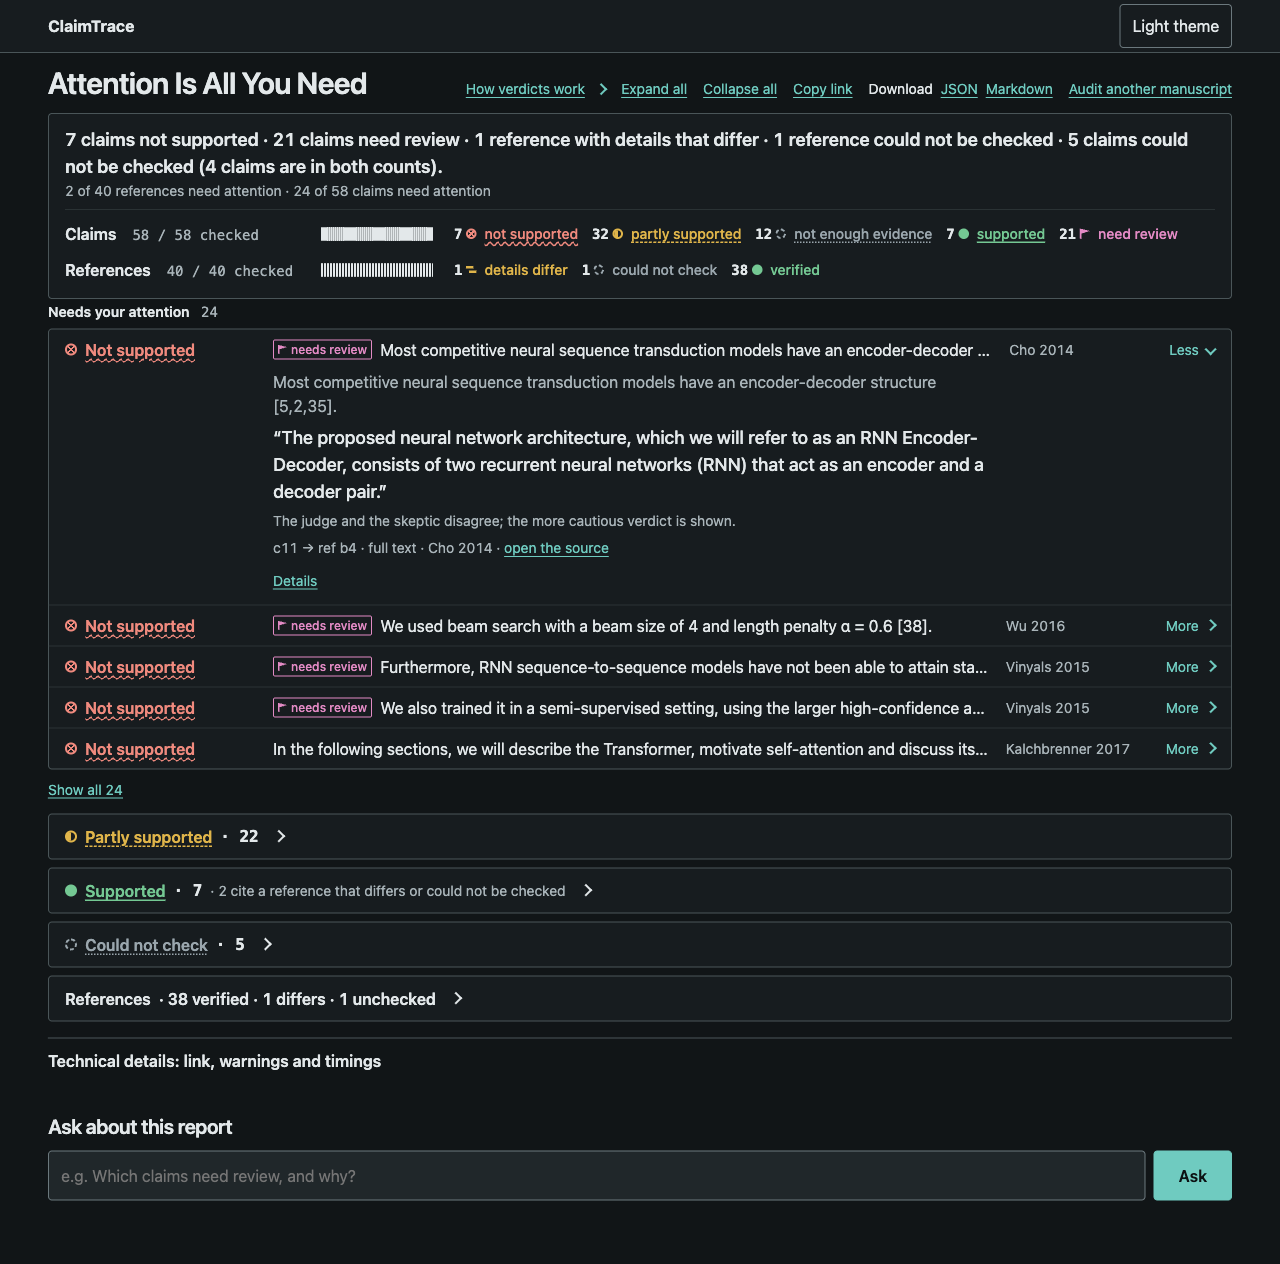
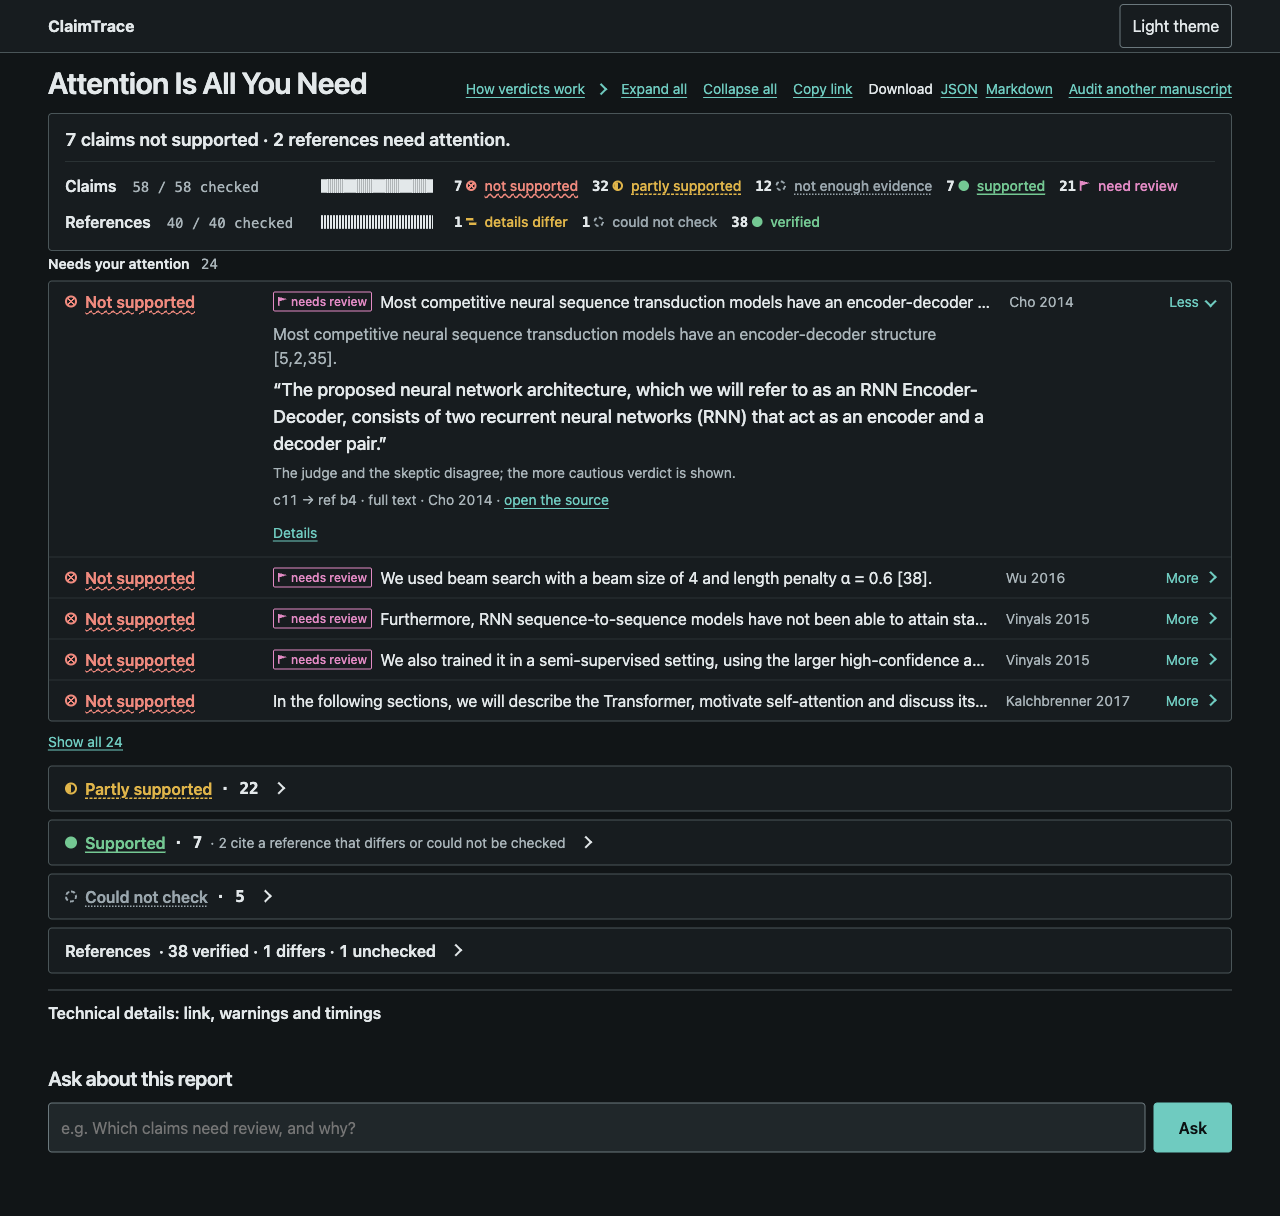
web: two-count headline, no summary paragraph; phone fits 5 problem rows
Headline names at most the worst claim count and the worst reference count; the count line is
screen-reader only (the counters say it). At <= 48rem: actions in one sideways-scrolling row,
counters as chip rows without the ruler (ruler only while running), and the first attention
row starts collapsed. Screenshots copied to .design/claimtrace/final/density-*.png.

diff --git a/claimtrace/web/static/app.js b/claimtrace/web/static/app.js
@@ -37,6 +37,7 @@ let seen = new Map();
 let lastShown = "";
 const openKeys = new Set(); // rows / <details data-key> the reader opened, kept open across re-renders
 const autoOpened = new Set(); // defaults applied once (first attention row), never re-applied
+const NARROW = "(max-width: 48rem)"; // same breakpoint as the phone layout in style.css
 const ATTENTION_FIRST = 5; // "Needs your attention" shows this many rows until "Show all"
 
 // el("p", {className: "x"}, "text", childNode, null) -> element; strings become text nodes.
@@ -471,7 +472,11 @@ function claimGroups(items, pending, running) {
   if (!items.length) return [el("p", { className: "none" }, pending ? "No citing sentences checked yet." : "No citing sentences were found in this manuscript.")];
   if (filter && filter.startsWith("c:")) return filtered(items, VERDICT, key, claimRow, "citing sentences", running);
   const bad = order(items.filter(claimAttention), VERDICT, key, running);
-  if (bad.length && !autoOpened.has("first")) { openKeys.add(`row-${itemKey(bad[0])}`); autoOpened.add("first"); }
+  // first row open by default, once; on a phone it starts collapsed so several problem rows fit on screen
+  if (bad.length && !autoOpened.has("first")) {
+    if (typeof matchMedia !== "function" || !matchMedia(NARROW).matches) openKeys.add(`row-${itemKey(bad[0])}`);
+    autoOpened.add("first");
+  }
   const all = openKeys.has("all-attention");
   const shown = all ? bad : bad.slice(0, ATTENTION_FIRST);
   const rest = items.filter((c) => !claimAttention(c));
@@ -558,29 +563,29 @@ function renderEmpty(r) {
       el("ul", { className: "warnings" }, r.warnings.map((w) => el("li", {}, w)))) : null);
 }
 
-// The worst counts in plain words. Claim counts overlap (a claim can be not supported AND need
-// review), so the line says so when they do.
+// At most the two worst counts in plain words: one for references, one for claims (the counters
+// below give every count). A missing or retracted reference leads.
 function headline(r, pending) {
   const count = (xs, f) => xs.filter(f).length;
+  const gone = r.references.filter((a) => a.status === "not_found" || a.status === "retracted");
+  const retracted = count(gone, (a) => a.status === "retracted");
+  const refAtt = count(r.references, refAttention);
+  const refPart = gone.length
+    ? `${plural(gone.length, "reference")} ${!retracted ? "not found" : retracted === gone.length ? "retracted" : "not found or retracted"}`
+    // not findings, but nothing was verified for them: never "No problems found" over them
+    : refAtt ? `${plural(refAtt, "reference")} ${need(refAtt)} attention` : null;
   const notSup = count(r.claims, (c) => c.verdict === "unsupported");
   const review = count(r.claims, (c) => c.needs_review);
-  const both = count(r.claims, (c) => c.verdict === "unsupported" && c.needs_review);
-  const parts = [
-    [count(r.references, (a) => a.status === "retracted"), "reference", "retracted"],
-    [count(r.references, (a) => a.status === "not_found"), "reference", "not found"],
-    [notSup, "claim", "not supported"],
-    [review, "claim", review === 1 ? "needs review" : "need review"],
-    [count(r.references, (a) => a.status === "metadata_mismatch"), "reference", "with details that differ"],
-    // not findings, but nothing was verified for them: never "No problems found" over them
-    [count(r.references, (a) => a.status === "unchecked"), "reference", "could not be checked"],
-    [count(r.claims, (c) => !c.needs_review && !refBad(c) && ["insufficient_evidence", "source_not_found"].includes(c.verdict)),
-      "claim", "could not be checked"],
-  ].filter(([n]) => n).map(([n, noun, what]) => `${plural(n, noun)} ${what}`);
+  const unchecked = count(r.claims, (c) => !c.needs_review && !refBad(c) && ["insufficient_evidence", "source_not_found"].includes(c.verdict));
+  const claimPart = notSup ? `${plural(notSup, "claim")} not supported`
+    : review ? `${plural(review, "claim")} ${review === 1 ? "needs" : "need"} review`
+      : unchecked ? `${plural(unchecked, "claim")} could not be checked` : null;
+  const parts = (gone.length ? [refPart, claimPart] : [claimPart, refPart]).filter(Boolean);
   const lead = pending ? "So far: " : "";
   if (!parts.length) {
     return `${lead}No problems found${pending ? " yet" : ""} in ${plural(r.claims.length, "claim")} and ${plural(r.references.length, "reference")}.`;
   }
-  return lead + parts.join(" · ") + (both ? ` (${plural(both, "claim")} ${both === 1 ? "is" : "are"} in both counts).` : ".");
+  return `${lead}${parts.join(" · ")}.`;
 }
 
 // opts.job: the running job (r is a partial snapshot); opts.saved: r is the saved sample report.

diff --git a/claimtrace/web/static/style.css b/claimtrace/web/static/style.css
@@ -448,9 +448,15 @@ blockquote.quote::after { content: "\201D"; }
   h1, .home h1 { font-size: var(--font-size-xl); }
   .readout { grid-template-columns: minmax(0, 1fr); }
   .exports { justify-content: flex-start; }
-  .meter { grid-template-columns: minmax(0, 1fr); }
+  /* one row of actions, scrolled sideways instead of wrapping */
+  .report-top { margin-bottom: var(--space-1); }
+  .exports { flex-wrap: nowrap; overflow-x: auto; width: 100%; gap: 0 var(--space-3); white-space: nowrap; }
+  .exports > * { flex: none; }
   .headline { font-size: var(--font-size-base); }
-  .exports { gap: 0 var(--space-3); }
+  /* counters as one wrapped chip row per section; the ruler only while running */
+  .meter { display: flex; flex-wrap: wrap; align-items: center; gap: 0 var(--space-2); }
+  #report:not(.running) .ruler { display: none; }
+  .running .ruler { flex: 1 0 100%; }
   .row-head, #refs-sec .row-head { grid-template-columns: auto minmax(0, 1fr) auto; grid-template-areas: "mark aside cue" "line line line"; gap: var(--space-1) var(--space-3); }
   #refs-sec .row-head { grid-template-areas: "mark id cue" "line line line" "aside aside aside"; }
   .row-head > .mark { grid-area: mark; }

diff --git a/.design/claimtrace/density/shoot.js b/.design/claimtrace/density/shoot.js
@@ -12,7 +12,8 @@ async (page) => {
       doc: document.documentElement.scrollHeight, // never below the viewport height
       content: Math.ceil(document.body.getBoundingClientRect().height),
       maxCollapsedRow: Math.max(0, ...rows.map((r) => Math.round(r.closest(".row").getBoundingClientRect().height))),
-      problemRowsOnFirstScreen: attRows.filter((r) => r.getBoundingClientRect().bottom <= innerHeight).length,
+      problemRowsFullyOnFirstScreen: attRows.filter((r) => r.getBoundingClientRect().bottom <= innerHeight).length,
+      problemRowsStartingOnFirstScreen: attRows.filter((r) => r.getBoundingClientRect().top < innerHeight).length,
     };
   });
   const open = async (name, theme, w, h) => {

diff --git a/claimtrace/web/static/index.html b/claimtrace/web/static/index.html
@@ -128,7 +128,7 @@
       <div class="readout">
         <div class="readout-text">
           <p id="headline" class="headline"></p>
-          <p id="summary" class="summary"></p>
+          <p id="summary" class="summary sr-only"></p>
           <div id="live" class="live" hidden>
             <p id="live-stage" aria-live="polite"></p>
           </div>

diff --git a/tests/adversarial/test_web_report_view.py b/tests/adversarial/test_web_report_view.py
@@ -568,13 +568,17 @@ def test_claim_citing_a_missing_reference_needs_attention_and_is_never_green():
     assert text(out["headline"]) == "1 reference not found."
 
 
-def test_headline_counts_say_when_they_overlap():
+def test_headline_names_at_most_the_two_worst_counts():
+    # one count for claims, one for references; every other count is in the counters below
     r = Report.model_validate(two_claims())
     r.claims[0].needs_review = True
+    r.references.append(audit("2", RefStatus.unchecked))
+    r.references.append(audit("3", RefStatus.metadata_mismatch))
     out = render_calls([[r.model_dump(mode="json")]])
-    assert text(out["headline"]) == (
-        "1 claim not supported · 1 claim needs review (1 claim is in both counts)."
-    )
+    assert text(out["headline"]) == "1 claim not supported · 2 references need attention."
+    r.claims[0].verdict = Verdict.partly_supported
+    out = render_calls([[r.model_dump(mode="json")]])
+    assert text(out["headline"]) == "1 claim needs review · 2 references need attention."
     ok_only = Report.model_validate(two_claims())
     ok_only.claims = ok_only.claims[1:]
     out = render_calls([[ok_only.model_dump(mode="json")]])
